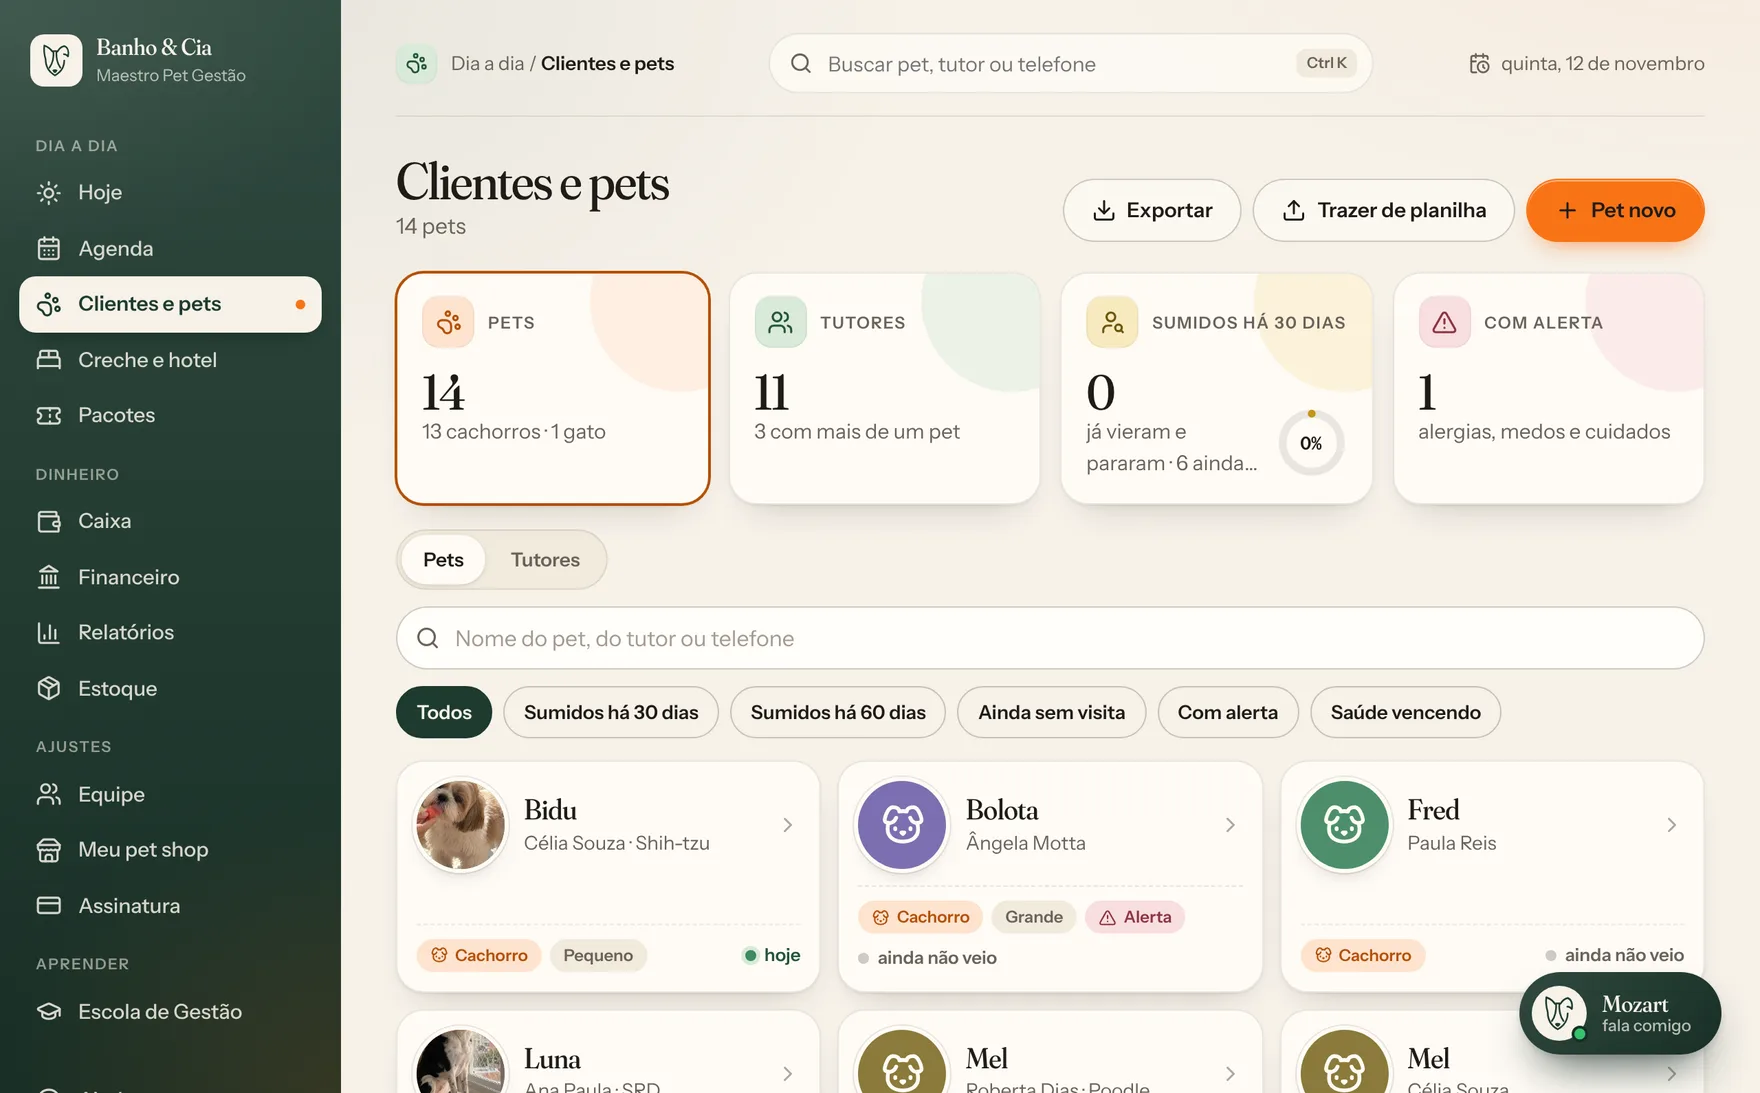
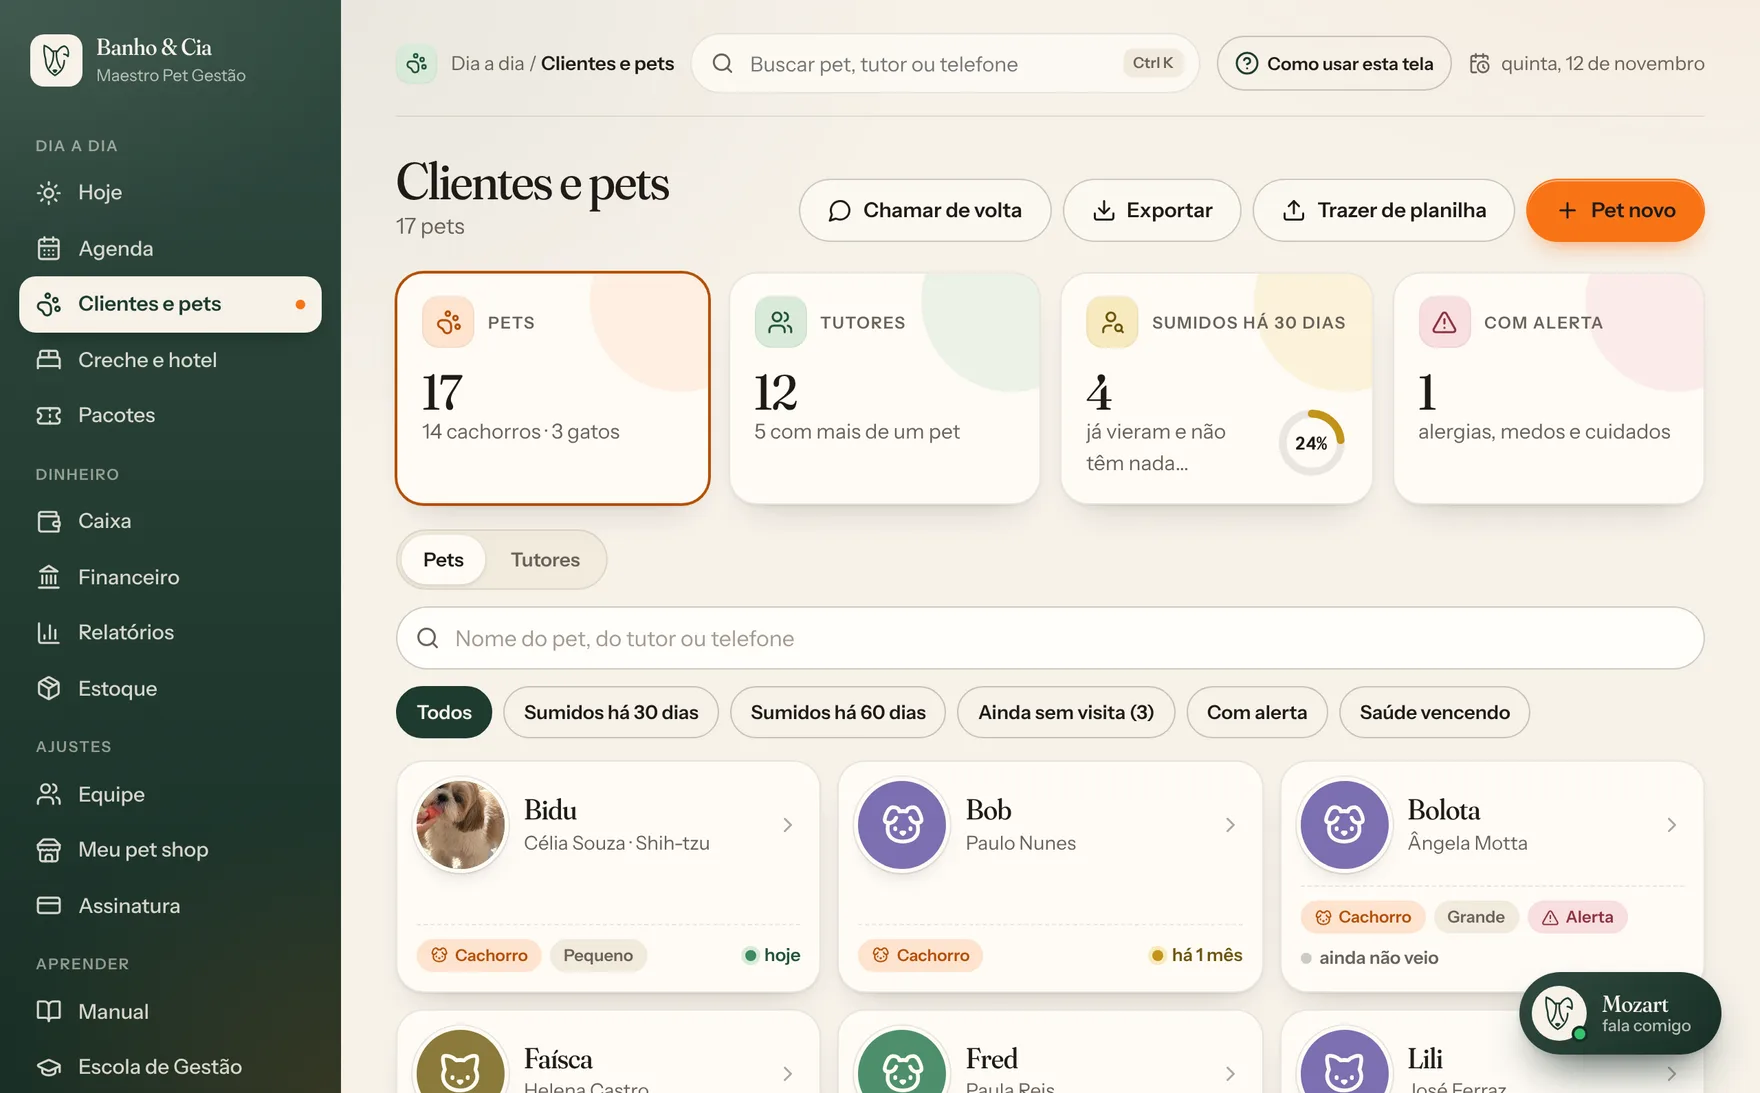
Gestão: página de venda com as novidades e imagens novas (#49)
* Escola de Gestão com 15 aulas e filtro por tema; categoria Retirada do dono; regra de áreas no banco (ainda não aplicada)

Claude-Session: https://claude.ai/code/session_01HswiybaiUCNiJJ4YwPDB39

* Corrige texto da aula sobre retirada

Claude-Session: https://claude.ai/code/session_01HswiybaiUCNiJJ4YwPDB39

* Gestão: aviso de fim de teste, primeiros passos guiados e resumo da semana na tela Hoje

- Fim de teste: cartão para o dono nos 2 últimos dias (dispensável por dia) e fixo depois de vencido, com os números reais da conta; linha discreta para a equipe
- Primeiros passos: progresso, atalho direto para cada ação, marcação automática pelos dados, comemoração única e "Já sei usar"
- Sua semana: resumo de segunda a domingo com comparação com a semana anterior, uma sugestão prática e "Copiar resumo"
- No máximo um cartão em destaque por vez; os outros viram linha
- Atalhos: ?aba=receber no Financeiro, ?filtro=sumidos30 em Clientes e abertura do link de agendamento por evento

* Junta retenção (fim de teste, primeiros passos, resumo da semana); teste não bloqueia enquanto a assinatura não abre

Claude-Session: https://claude.ai/code/session_01HswiybaiUCNiJJ4YwPDB39

* Correções da segunda rodada (Marlene): tratamento no nome, telefone do pet shop, lembrete só em horário válido, confirmação ao fechar o caixa, textos

Claude-Session: https://claude.ai/code/session_01HswiybaiUCNiJJ4YwPDB39
[…]

diff --git a/src/app/(gestao)/gestao/page.tsx b/src/app/(gestao)/gestao/page.tsx
@@ -30,6 +30,7 @@ const PEDIDOS: [string, string][] = [
 
 const INCLUI: [string, string][] = [
   ["Assistente de inteligência artificial", "Diga o que precisa, por áudio ou texto. Ele prepara e você confirma."],
+  ["Começo guiado", "Você marca o que o seu negócio faz e o menu mostra só o que você usa. Um guia curto acerta o resto."],
   ["Agenda de banho e tosa", "Por dia e por semana, por profissional, com os horários livres à vista."],
   ["Link de agendamento", "O cliente escolhe o horário pelo link e você aceita ou recusa com um toque."],
   ["Sua marca no sistema", "Sua logo e as cores do pet shop no link do cliente, nas telas e na agenda impressa."],
@@ -38,29 +39,38 @@ const INCLUI: [string, string][] = [
   ["Fotos de antes e depois", "Guarde o resultado do banho e mande para o tutor."],
   ["Aviso de pet pronto", "Terminou o banho? O sistema monta a mensagem e abre o seu WhatsApp."],
   ["Lembrete no WhatsApp", "O sistema monta a mensagem do horário e abre o seu WhatsApp. Você só envia."],
+  ["Chamar de volta", "A lista de quem não vem há 30, 45, 60 ou 90 dias e dos aniversariantes da semana, com a mensagem pronta. Você só envia."],
+  ["Fidelidade do seu jeito", "Você define: a cada tantos atendimentos, um prêmio à sua escolha. O sistema faz a conta de cada tutor."],
   ["Horários que se repetem", "Marque o banho de toda semana de uma vez e bloqueie almoço e folgas."],
   ["Pacotes e mensalistas", "Quantos banhos o cliente comprou, quantos usou e quando vence."],
   ["Creche e hotel", "Entrada, saída e diárias de quem fica com você."],
   ["Comanda e venda no balcão", "Serviço, produto e extra numa conta só, com baixa no estoque."],
-  ["Caixa do dia", "Abertura, entradas, saídas e fechamento conferido com a gaveta."],
+  ["Comprovante no WhatsApp", "Recebeu a conta? O sistema monta o comprovante e abre o seu WhatsApp. Não é nota fiscal."],
+  ["Caixa do dia", "Abertura, entradas, saídas e fechamento conferido com a gaveta, com planilha para baixar."],
   ["Financeiro e meta do mês", "Contas a pagar e a receber, o resultado do mês e quanto falta para a meta."],
   ["Estoque", "Entradas, saídas e aviso quando um produto está acabando."],
-  ["Equipe com acesso por área", "Você escolhe o que cada pessoa vê: agenda, clientes, caixa, financeiro, estoque."],
+  ["Equipe com acesso por área", "Você escolhe o que cada pessoa vê: agenda, clientes, creche e hotel, pacotes, estoque, caixa, financeiro, relatórios."],
   ["Agenda em PDF", "Baixe ou imprima a agenda do dia para deixar na bancada."],
-  ["Relatórios", "Atendimentos, faltas, serviços mais feitos, faturamento e comissão."],
+  ["Relatórios", "Atendimentos, faltas, serviços mais feitos, faturamento, comissão e os números da creche e do hotel, ao lado do período anterior."],
   ["Leva e traz", "Marque quem precisa ser buscado, com o endereço no próprio horário."],
+  ["Clientes da sua planilha", "Traga clientes, pets e produtos de uma planilha, colando as células ou enviando o arquivo."],
+  ["Manual dentro do sistema", "Mais de 80 tópicos de passo a passo, com busca e para imprimir. E o botão “Como usar esta tela” em todas as telas."],
+  ["Cópia dos seus dados", "Baixe tudo em planilhas para guardar com você. É uma cópia para consulta: não volta para o sistema automaticamente."],
 ];
 
 const PERGUNTAS: [string, React.ReactNode][] = [
   ["Precisa instalar alguma coisa?", "Não. O sistema abre no navegador. Se quiser, você coloca na tela inicial do celular e ele fica como um aplicativo."],
+  ["Preciso configurar muita coisa para começar?", "Não. Ao criar a conta, você marca o que o seu negócio faz (banho e tosa, creche, hotel, venda de produtos, pacotes) e o menu mostra só o que você usa. Em seguida, um guia curto acerta o horário, a equipe, os serviços e preços e o link do cliente. Cada passo pode ficar para depois, e tudo pode ser mudado mais tarde."],
   ["Funciona no celular?", "Sim. Ele foi feito primeiro para o celular. No computador funciona igual, com a tela maior."],
   ["O assistente faz as coisas sozinho?", "Não. Ele entende o pedido, mostra o que vai fazer e espera o seu “confirmar”. Nada entra na agenda, no caixa ou no estoque sem você ver."],
   ["E os dados dos meus clientes?", <>Os dados são do seu pet shop. Você pode exportar e apagar quando quiser, como pede a LGPD. Os detalhes estão na <Link href="/gestao/privacidade">política de privacidade</Link>.</>],
-  ["Emite nota fiscal?", "Ainda não. Hoje o sistema não emite nota fiscal."],
+  ["Emite nota fiscal?", "Ainda não. Hoje o sistema não emite nota fiscal. O comprovante que ele monta para você mandar pelo WhatsApp não é documento fiscal."],
+  ["Tem manual?", "Sim, dentro do sistema. São mais de 80 tópicos com o passo a passo de cada tarefa, com busca e opção de imprimir. No alto de todas as telas, o botão “Como usar esta tela” abre a explicação daquela tela. Se ainda ficar dúvida, o suporte atende pelo WhatsApp."],
+  ["Meus dados ficam presos no sistema?", "Não. Clientes, caixa, financeiro e relatórios saem em planilha. Em Meu pet shop, você também baixa uma cópia de segurança com tudo em planilhas, que abrem no Excel e no Google Planilhas. Essa cópia é para guardar e consultar: ainda não dá para trazê-la de volta para o sistema automaticamente, e as fotos não entram."],
   ["Serve para creche e hotel de cães?", "Sim. Tem reserva, entrada e saída, diária fixa, número de vagas com aviso de casa cheia, aviso de vacina vencida na entrada, pacotes de diárias e pedido de vaga pelo link do cliente."],
   ["Estou em outro sistema. Consigo trazer meus clientes?", "Sim. Você traz clientes, pets e produtos de uma planilha, colando as células ou enviando o arquivo. O que já está no sistema não é apagado."],
   ["Serve para clínica veterinária?", "O sistema é feito para pet shop, banho e tosa, creche e hotel. Ele não tem prontuário, receituário nem internação. Uma clínica que também faz banho e tosa pode usá-lo para essa parte."],
-  ["Tem fidelidade?", "Não. No plano mensal a cobrança é todo mês. Nos planos de 3 e 6 meses você paga o período de uma vez, por um valor menor. Em qualquer um, você cancela quando quiser e usa até o fim do período já pago."],
+  ["Tem contrato de fidelidade?", "Não. No plano mensal a cobrança é todo mês. Nos planos de 3 e 6 meses você paga o período de uma vez, por um valor menor. Em qualquer um, você cancela quando quiser e usa até o fim do período já pago."],
   ["Como o meu cliente agenda pelo link?", "Você manda o link pelo WhatsApp ou deixa no Instagram. O cliente escolhe o serviço, o dia e um dos horários livres, e você recebe o pedido para aceitar ou recusar. Ele não vê a sua agenda nem os dados de outros clientes, só os horários que estão livres."],
   ["O que o cliente vê tem a minha marca?", "Sim. Você coloca a sua logo e escolhe as cores do pet shop. Elas aparecem no link de agendamento, nas telas do sistema e na agenda impressa."],
   ["Posso colocar a minha equipe?", "Sim. Cada pessoa entra com o próprio acesso, e você escolhe o que ela vê: agenda, clientes, caixa, financeiro, estoque. Dá para ter mais de um dono. O número de acessos depende do plano: 1, 3 ou 6."],

diff --git a/src/lib/gestao/vendas.ts b/src/lib/gestao/vendas.ts
@@ -28,7 +28,7 @@ Como atender
 - Indique o plano pelo número de pessoas que precisam de login: banhista e tosador que só aparecem na agenda não ocupam acesso.
 - Quando a pessoa mostrar interesse, convide para o teste grátis: 7 dias, sem cartão, no botão Testar grátis desta conversa. Convide uma vez; se ela ainda tem dúvida, responda a dúvida primeiro e convide de novo depois.
 - Objeção de preço: reconheça, lembre que todas as funções estão em todos os planos, que não tem fidelidade e que dá para testar 7 dias sem pagar. Não ofereça desconto.
-- Objeção de "não sei mexer": o sistema foi feito para o celular e dá para pedir as coisas por áudio ao Mozart, o assistente de dentro do sistema.
+- Objeção de "não sei mexer": o sistema foi feito para o celular e dá para pedir as coisas por áudio ao Mozart, o assistente de dentro do sistema. Tem também um manual dentro do sistema e o botão "Como usar esta tela" em todas as telas.
 
 O que você nunca faz
 - Nunca invente função, preço, prazo, desconto, cupom, promoção, número de clientes, depoimento ou resultado. Só afirme o que está nos Fatos abaixo.
@@ -45,9 +45,11 @@ Teste: 7 dias grátis, sem cartão. Durante o teste a conta fica no plano maior,
 Planos (todos têm as mesmas funções; muda o número de pessoas com login e o período de cobrança):
 ${PLANOS_TXT}
 Sem fidelidade: no mensal a cobrança é todo mês; nos de 3 e 6 meses paga o período de uma vez, por um valor menor. Cancela quando quiser e usa até o fim do período pago. Para trocar de plano, cancela o atual e assina o novo; os dados continuam. Pagamento pela Cakto.
-Funções: assistente de inteligência artificial (o Mozart) que entende pedido por áudio ou texto, como "marca banho e tosa da Mel sexta às dez" ou "quanto entrou essa semana?", prepara e espera a pessoa confirmar (nada é gravado sem confirmar); agenda de banho e tosa por dia e semana, por profissional; link de agendamento para o cliente escolher o horário, com pedido que o pet shop aceita ou recusa (o cliente só vê horários livres); logo e cores do pet shop no sistema, no link e na agenda impressa; cadastro de clientes e pets com foto, porte, cuidados e histórico; saúde do pet (vacinas, vermífugo, antipulgas com vencimento e aviso); fotos de antes e depois; aviso de pet pronto e lembrete de horário com mensagem pronta que abre o WhatsApp do pet shop (o sistema não envia sozinho, a pessoa toca em enviar); horários que se repetem e bloqueio de almoço e folgas; pacotes e mensalistas; creche e hotel com entrada, saída e diárias; comanda e venda no balcão com baixa no estoque; caixa do dia; financeiro com contas a pagar e a receber e meta do mês; estoque com aviso de produto acabando; equipe com acesso por área e comissão; agenda em PDF; relatórios; leva e traz.
+Funções: assistente de inteligência artificial (o Mozart) que entende pedido por áudio ou texto, como "marca banho e tosa da Mel sexta às dez" ou "quanto entrou essa semana?", prepara e espera a pessoa confirmar (nada é gravado sem confirmar); agenda de banho e tosa por dia e semana, por profissional; link de agendamento para o cliente escolher o horário, com pedido que o pet shop aceita ou recusa (o cliente só vê horários livres); logo e cores do pet shop no sistema, no link e na agenda impressa; cadastro de clientes e pets com foto, porte, cuidados e histórico; saúde do pet (vacinas, vermífugo, antipulgas com vencimento e aviso); fotos de antes e depois; aviso de pet pronto e lembrete de horário com mensagem pronta que abre o WhatsApp do pet shop (o sistema não envia sozinho, a pessoa toca em enviar); horários que se repetem e bloqueio de almoço e folgas; pacotes e mensalistas; creche e hotel com entrada, saída e diárias; comanda e venda no balcão com baixa no estoque; caixa do dia; financeiro com contas a pagar e a receber e meta do mês; estoque com aviso de produto acabando; equipe com acesso por área e comissão (o dono escolhe o que cada pessoa vê: agenda, clientes, creche e hotel, pacotes, estoque, caixa, financeiro, relatórios); agenda em PDF; relatórios com atendimentos, faltas, faturamento, comissão e os números da creche e do hotel, ao lado do período anterior; leva e traz; "Chamar de volta", a lista de pets que não vêm há 30, 45, 60 ou 90 dias e dos aniversariantes da semana, com mensagem pronta que abre o WhatsApp do pet shop (a pessoa toca em enviar); comprovante do atendimento para mandar pelo WhatsApp depois de receber a conta (não é nota fiscal nem documento fiscal); programa de fidelidade que o dono define (a cada tantos atendimentos, um prêmio à escolha dele; o sistema conta por tutor); planilha do caixa, do financeiro, dos clientes e dos relatórios para baixar.
+Começo: ao criar a conta, a pessoa marca o que o negócio faz (banho e tosa, creche, hotel, venda de produtos, pacotes) e o menu mostra só o que ela usa; um guia curto acerta horário, equipe, serviços e preços e o link do cliente, e cada passo pode ficar para depois. Dá para trazer clientes, pets e produtos de uma planilha (colando as células ou enviando arquivo CSV).
+Ajuda: manual dentro do sistema, com mais de 80 tópicos de passo a passo, busca e opção de imprimir; botão "Como usar esta tela" no alto de todas as telas; suporte por WhatsApp.
 O que não tem: não emite nota fiscal. Não é para clínica veterinária: não tem prontuário, receituário nem internação (uma clínica pode usar para a parte de banho e tosa). Não envia mensagem de WhatsApp automaticamente.
-Dados: são do pet shop, que pode exportar planilhas e pedir para apagar a conta, como pede a LGPD.
+Dados: são do pet shop, que pode exportar planilhas e pedir para apagar a conta, como pede a LGPD. Em Meu pet shop dá para baixar uma cópia de segurança com tudo em planilhas (as fotos não entram); é para guardar e consultar, ainda não dá para trazer essa cópia de volta para o sistema automaticamente.
 Equipe humana: WhatsApp ${WHATSAPP_SUPORTE_TEXTO}.`;
 
 /** Resposta sem a chave da IA ou acima do limite: honesta e curta, com o caminho para a equipe. */

diff --git a/src/components/gestao/vitrine.tsx b/src/components/gestao/vitrine.tsx
@@ -6,13 +6,15 @@ const ABAS: { id: string; rotulo: string; frase: string; alt: string }[] = [
   { id: "agenda", rotulo: "Agenda", frase: "A semana inteira de relance, por profissional, com os horários livres à vista.", alt: "Agenda da semana com os atendimentos coloridos por serviço" },
   { id: "assistente", rotulo: "Assistente de IA", frase: "Um assistente de inteligência artificial: fale ou escreva o que precisa. Ele prepara e você confirma com um toque.", alt: "Painel do assistente aberto ao lado da tela inicial" },
   { id: "clientes", rotulo: "Clientes e pets", frase: "Cada pet com foto, tutor, cuidados e a data da última visita.", alt: "Lista de pets com foto, tutor e última visita" },
+  { id: "chamar-de-volta", rotulo: "Chamar de volta", frase: "Quem não vem há 30, 45, 60 ou 90 dias e os aniversariantes da semana, com a mensagem pronta. Você toca e envia pelo seu WhatsApp.", alt: "Chamar de volta: lista de tutores com a mensagem pronta para abrir no WhatsApp" },
   { id: "caixa", rotulo: "Caixa", frase: "Abra o caixa, lance entradas e saídas e feche o dia conferindo a gaveta.", alt: "Caixa do dia com entradas e saídas" },
   { id: "financeiro", rotulo: "Financeiro", frase: "O que entrou, o que saiu, as contas que vencem e o resultado do mês.", alt: "Financeiro do mês com entradas, saídas e resultado" },
   { id: "estoque", rotulo: "Estoque", frase: "Entradas e saídas de produto, com aviso quando algum está acabando.", alt: "Estoque com saldo de cada produto" },
   { id: "pacotes", rotulo: "Pacotes", frase: "Venda pacotes de banho e acompanhe o que cada cliente já usou.", alt: "Pacotes e mensalistas" },
   { id: "creche-hotel", rotulo: "Creche e hotel", frase: "Quem está na casa agora, as reservas e o check-out com as diárias.", alt: "Creche e hotel" },
-  { id: "relatorios", rotulo: "Relatórios", frase: "Atendimentos, faltas, serviços mais feitos, faturamento e comissão.", alt: "Relatórios do período" },
+  { id: "relatorios", rotulo: "Relatórios", frase: "Atendimentos, faltas, serviços mais feitos, faturamento e comissão, com os números do período anterior ao lado.", alt: "Relatórios do período, com a comparação com o período anterior" },
   { id: "equipe", rotulo: "Equipe", frase: "Acesso por função, quem atende na agenda e a escala da semana.", alt: "Equipe e escala da semana" },
+  { id: "manual", rotulo: "Manual", frase: "O passo a passo de cada tarefa, com busca e para imprimir. E o botão “Como usar esta tela” no alto de todas as telas.", alt: "Manual dentro do sistema, com busca e os primeiros passos" },
 ];
 
 /** Vitrine das funções: uma aba por parte do sistema, cada uma com a tela real e uma frase. */
